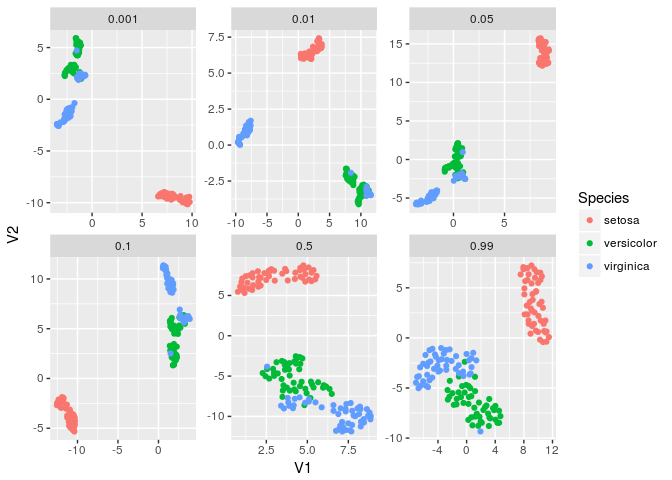
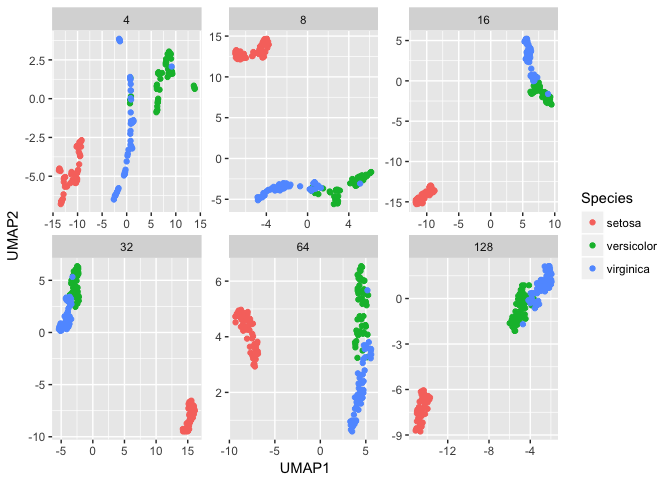
update of rmd

diff --git a/README.md b/README.md
@@ -14,28 +14,43 @@ Here is an example of running UMAP on the `iris` data set.
 
 ``` r
 library(umapr)
+library(tidyverse)
+#> Loading tidyverse: ggplot2
+#> Loading tidyverse: tibble
+#> Loading tidyverse: tidyr
+#> Loading tidyverse: readr
+#> Loading tidyverse: purrr
+#> Loading tidyverse: dplyr
+#> Conflicts with tidy packages ----------------------------------------------
+#> filter(): dplyr, stats
+#> lag():    dplyr, stats
 # select only numeric columns
-embedding <- as.data.frame(umap(as.matrix(iris[ , 1:4])))
+embedding <- umap(as.matrix(iris[ , 1:4]))
 
 # look at result
-head(embedding)
-#>           V1        V2
-#> 1 -1.7324369 -5.463769
-#> 2 -2.8849956 -3.761887
-#> 3 -3.6021864 -4.281125
-#> 4 -3.4141524 -4.057291
-#> 5 -1.9330339 -5.352357
-#> 6 -0.6892355 -4.836187
+head(embedding$returnData())
+#>   Sepal.Length Sepal.Width Petal.Length Petal.Width    UMAP1     UMAP2
+#> 1          5.1         3.5          1.4         0.2 12.59556 -11.59737
+#> 2          4.9         3.0          1.4         0.2 11.81534 -13.40666
+#> 3          4.7         3.2          1.3         0.2 11.54976 -12.75958
+#> 4          4.6         3.1          1.5         0.2 11.44540 -12.85110
+#> 5          5.0         3.6          1.4         0.2 12.67529 -11.79392
+#> 6          5.4         3.9          1.7         0.4 13.63238 -11.18265
 
-# plot result
-suppressPackageStartupMessages(library(tidyverse))
-ggplot(embedding, aes(x = V1, y = V2, color = iris$Species)) + 
-  geom_point()
+#plot the result
+embedding$plot("Petal.Length")
 ```
 
 ![](README-unnamed-chunk-2-1.png)
 
-`umap` returns a data frame with two columns containing the UMAP embeddings of the original data and (optionally) the original data attached.
+`umap` returns an R6 object, which contains a data frame two columns called("UMAP1","UMAP2") containing the UMAP embeddings of the original data and the original data attached. To get the actual output as a `data.frame`, use the `$returnData()` method attached to the R6 object.
+
+The R6 object also includes an `$explore()` method, which will bring up a Shiny app for exploring coloring the different variables on the umap plots.
+
+``` r
+
+embedding$explore()
+```
 
 There are a few important parameters. These are fully described in the UMAP Python [documentation](https://github.com/lmcinnes/umap/blob/bf1c3e5c89ea393c9de10bd66c5e3d9bc30588ee/notebooks/UMAP%20usage%20and%20parameters.ipynb).
 
@@ -46,18 +61,19 @@ neighbors <- c(4, 8, 16, 32, 64, 128)
 
 f <- lapply(neighbors, function(neighbor) {
   iris_result <- umap(as.matrix(iris[,1:4]), n_neighbors = as.integer(neighbor))
-  cbind(as.data.frame(iris_result), data.frame(Species = iris$Species))
+ 
+  cbind(iris_result$returnData(), Species=iris$Species)
 })
 
 names(f) <- neighbors
 
 bind_rows(f, .id = "Neighbor") %>% 
   mutate(Neighbor = as.integer(Neighbor)) %>% 
-  ggplot(aes(V1, V2, color = Species)) + geom_point() + 
+  ggplot(aes(UMAP1, UMAP2, color = Species)) + geom_point() + 
   facet_wrap(~ Neighbor, scales = "free")
 ```
 
-![](README-unnamed-chunk-3-1.png)
+![](README-unnamed-chunk-4-1.png)
 
 The `min_dist` argument can range from 0 to 1.
 
@@ -66,17 +82,17 @@ dists <- c(0.001, 0.01, 0.05, 0.1, 0.5, 0.99)
 
 f <- lapply(dists, function(dist) {
   iris_result <- umap(as.matrix(iris[,1:4]), min_dist = dist)
-  cbind(as.data.frame(iris_result), data.frame(Species = iris$Species))
+  cbind(iris_result$returnData(), Species=iris$Species)
 })
 
 names(f) <- dists
 
 bind_rows(f, .id = "Distance") %>% 
-  ggplot(aes(V1, V2, color = Species)) + geom_point() + 
+  ggplot(aes(UMAP1, UMAP2, color = Species)) + geom_point() + 
   facet_wrap(~ Distance, scales = "free")
 ```
 
-![](README-unnamed-chunk-4-1.png)
+![](README-unnamed-chunk-5-1.png)
 
 The `distance` argument can be a bunch of stuff.
 
@@ -85,14 +101,14 @@ dists <- c("euclidean", "manhattan", "canberra", "cosine", "hamming", "dice")
 
 f <- lapply(dists, function(dist) {
   iris_result <- umap(as.matrix(iris[,1:4]), metric = dist)
-  cbind(as.data.frame(iris_result), data.frame(Species = iris$Species))
+  cbind(iris_result$returnData(), Species=iris$Species)
 })
 
 names(f) <- dists
 
 bind_rows(f, .id = "Metric") %>% 
-  ggplot(aes(V1, V2, color = Species)) + geom_point() + 
+  ggplot(aes(UMAP1, UMAP2, color = Species)) + geom_point() + 
   facet_wrap(~ Metric, scales = "free")
 ```
 
-![](README-unnamed-chunk-5-1.png)
+![](README-unnamed-chunk-6-1.png)
